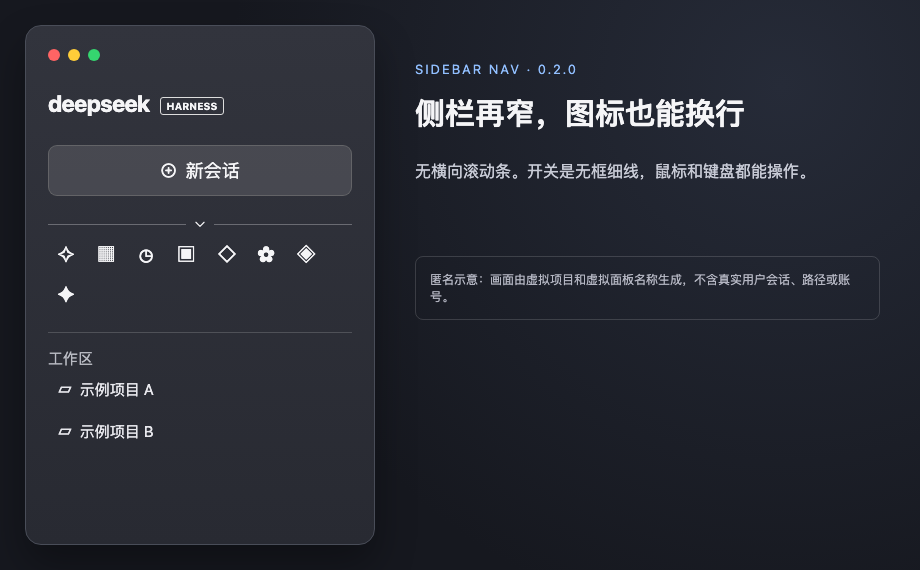
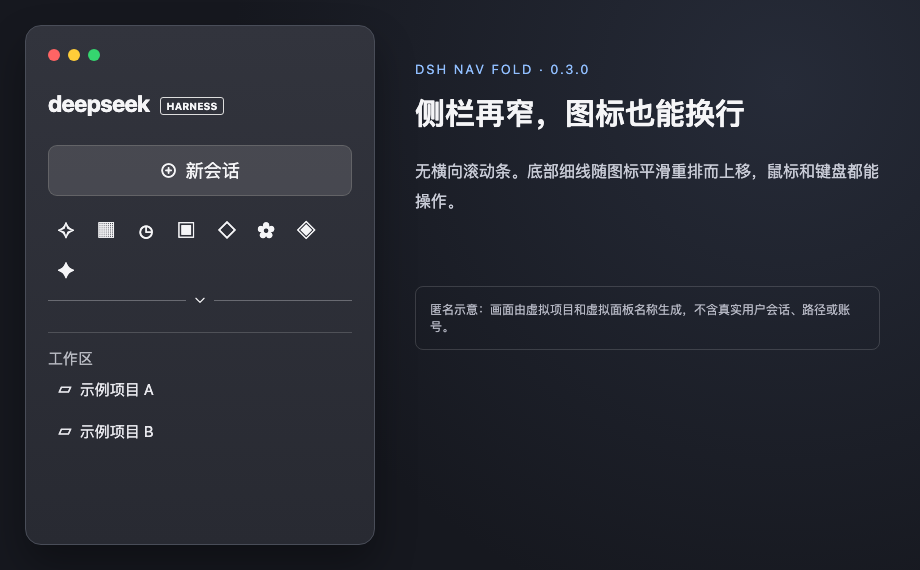
feat: rename nav fold and animate bottom toggle

diff --git a/lib/client.js b/lib/client.js
@@ -1,12 +1,12 @@
 window.__ModuleLoader__.load({
-  id: 'dsh-sidebar-nav-collapse',
+  id: 'dsh-nav-fold',
   factory: () => {
     const module = { exports: {} };
-    const key = 'dsh-sidebar-nav-collapse';
+    const key = 'dsh-sidebar-nav-collapse'; // Preserve existing fold and order settings across the rename.
     const css = `
-nav[class*="panelList"][data-sidebar-nav-collapsed] { position: relative; padding-top: 24px; }
+nav[class*="panelList"][data-sidebar-nav-collapsed] { position: relative; padding-bottom: 24px; }
 nav[class*="panelList"][data-sidebar-nav-collapsed="true"] {
-  display: flex; flex-direction: row; flex-wrap: wrap; align-items: center; min-width: 0;
+  display: flex; flex-direction: row; flex-wrap: wrap; align-items: center; align-content: flex-start; min-width: 0;
 }
 nav[class*="panelList"][data-sidebar-nav-collapsed="true"] > button[class*="panelRow"] {
   flex: 0 0 36px; width: 36px; min-width: 36px; padding-inline: 8px;
@@ -15,7 +15,7 @@ nav[class*="panelList"][data-sidebar-nav-collapsed="true"] > button[class*="pane
 nav[class*="panelList"][data-sidebar-nav-collapsed="true"] > button[class*="panelRow"] [class*="panelTitle"] { display: none; }
 nav[class*="panelList"][data-sidebar-nav-collapsed="true"] > button[class*="panelRow"] [class*="panelGlyph"] { flex: none; }
 nav[class*="panelList"] > [data-sidebar-nav-toggle] {
-  position: absolute; top: 0; left: 0; width: 100%; height: 24px;
+  position: absolute; bottom: 0; left: 0; width: 100%; height: 24px;
   display: flex; align-items: center; justify-content: center;
   border: 0; background: transparent; color: inherit; cursor: pointer;
 }
@@ -98,6 +98,41 @@ nav[class*="panelList"][data-sidebar-nav-collapsed="false"] > button[data-sideba
             syncRows(nav);
           }
         };
+        const animations = new Set();
+        const animateLayout = (update) => {
+          if (typeof document.body.animate !== 'function' || window.matchMedia?.('(prefers-reduced-motion: reduce)').matches) {
+            for (const animation of animations) animation.cancel();
+            animations.clear();
+            update();
+            return;
+          }
+          const before = [...managed].map((nav) => ({
+            nav, height: window.getComputedStyle(nav).height,
+            items: rows(nav).map((row) => [row, row.getBoundingClientRect()]),
+          }));
+          for (const animation of animations) animation.cancel();
+          animations.clear();
+          update();
+          const after = before.map(({ nav, height, items }) => ({
+            nav, height, items, targetHeight: window.getComputedStyle(nav).height,
+            targets: new Map(rows(nav).map((row) => [row, row.getBoundingClientRect()])),
+          }));
+          const play = (element, frames) => {
+            const animation = element.animate(frames, { duration: 280, easing: 'cubic-bezier(.4,0,.2,1)' });
+            animations.add(animation);
+            animation.onfinish = () => animations.delete(animation);
+            animation.oncancel = () => animations.delete(animation);
+          };
+          for (const { nav, height, items, targetHeight, targets } of after) {
+            if (height !== targetHeight) play(nav, [{ height }, { height: targetHeight }]);
+            for (const [row, rect] of items) {
+              const target = targets.get(row);
+              if (!target) continue;
+              const dx = rect.left - target.left, dy = rect.top - target.top;
+              if (dx || dy) play(row, [{ transform: `translate(${dx}px, ${dy}px)` }, { transform: 'translate(0, 0)' }]);
+            }
+          }
+        };
         const clear = (nav) => {
           syncRows(nav, true);
           nav.querySelector('[data-sidebar-nav-toggle]')?.remove();
@@ -152,7 +187,7 @@ nav[class*="panelList"][data-sidebar-nav-collapsed="false"] > button[data-sideba
           const ordered = visualRows(nav).filter((item) => item !== dragging.row);
           ordered.splice(ordered.indexOf(row) + (side === 'after' ? 1 : 0), 0, dragging.row);
           clearDrag();
-          saveOrder(ordered);
+          animateLayout(() => saveOrder(ordered));
         };
         const onKeyDown = (event) => {
           if (!event.altKey || !['ArrowLeft', 'ArrowRight', 'ArrowUp', 'ArrowDown'].includes(event.key)) return;
@@ -166,23 +201,27 @@ nav[class*="panelList"][data-sidebar-nav-collapsed="false"] > button[data-sideba
           event.preventDefault();
           ordered.splice(index, 1);
           ordered.splice(next, 0, row);
-          saveOrder(ordered);
+          animateLayout(() => saveOrder(ordered));
         };
         const sync = () => {
           for (const nav of managed) if (!nav.isConnected) clear(nav);
           for (const nav of document.querySelectorAll('nav[class*="panelList"]')) {
             if (!/^(全局面板|Global panels)$/.test(nav.getAttribute('aria-label') || '')) continue;
             if (!managed.has(nav)) managed.add(nav);
-            if (nav.querySelector(':scope > [data-sidebar-nav-toggle]')) continue;
+            const existing = nav.querySelector(':scope > [data-sidebar-nav-toggle]');
+            if (existing) {
+              if (nav.lastElementChild !== existing) nav.append(existing);
+              continue;
+            }
             const button = document.createElement('button');
             button.type = 'button';
             button.dataset.sidebarNavToggle = '';
-            button.addEventListener('click', () => {
+            button.addEventListener('click', () => animateLayout(() => {
               collapsed = !collapsed;
               try { window.localStorage.setItem(key, collapsed ? 'collapsed' : 'expanded'); } catch {}
               paint();
-            });
-            nav.prepend(button);
+            }));
+            nav.append(button);
             paint();
           }
           for (const nav of managed) syncRows(nav);
@@ -197,6 +236,8 @@ nav[class*="panelList"][data-sidebar-nav-collapsed="false"] > button[data-sideba
         document.body.addEventListener('keydown', onKeyDown);
         return () => {
           observer.disconnect();
+          for (const animation of animations) animation.cancel();
+          animations.clear();
           clearDrag();
           document.body.removeEventListener('dragstart', onDragStart);
           document.body.removeEventListener('dragover', onDragOver);
@@ -206,10 +247,10 @@ nav[class*="panelList"][data-sidebar-nav-collapsed="false"] > button[data-sideba
           for (const nav of managed) clear(nav);
           style.remove();
         };
-      }, 'dsh-sidebar-nav-collapse: global navigation');
+      }, 'dsh-nav-fold: global navigation');
     }
     module.exports.apply = apply;
-    module.exports.name = 'dsh-sidebar-nav-collapse-client';
+    module.exports.name = 'dsh-nav-fold-client';
     return module.exports;
   }
 });

diff --git a/test/client.test.js b/test/client.test.js
@@ -17,7 +17,7 @@ function start(html = navigation(), savedState, savedOrder) {
   const code = fs.existsSync(path) ? fs.readFileSync(path, 'utf8') : '';
   assert.match(code, /window\.__ModuleLoader__\.load/, 'client bundle must exist');
   vm.runInNewContext(code, { window: Object.assign(dom.window, { __ModuleLoader__: { load: (value) => { bundle = value; } } }), document: dom.window.document, MutationObserver: dom.window.MutationObserver });
-  assert.equal(bundle.id, 'dsh-sidebar-nav-collapse');
+  assert.equal(bundle.id, 'dsh-nav-fold');
   const client = bundle.factory(() => { throw Error('unexpected dependency'); });
   const disposers = [];
   client.apply({ effect: (fn) => { disposers.push(fn()); } });
@@ -50,17 +50,19 @@ test('collapse is a keyboard-accessible icon strip scoped to global nav; workspa
   dispose();
 });
 
-test('both states share a full-width slim top bar with a legible SVG icon', () => {
+test('both states share a full-width slim bottom line with a legible SVG icon', () => {
   const { doc, dispose } = start();
   const nav = doc.querySelector('nav');
   const toggle = nav.querySelector('[data-sidebar-nav-toggle]');
   const css = doc.querySelector('style[data-plugin-css="dsh-sidebar-nav-collapse"]').textContent;
-  assert.match(css, /nav\[class\*="panelList"\]\[data-sidebar-nav-collapsed\][^{]*\{[^}]*position:\s*relative;[^}]*padding-top:\s*24px/);
-  assert.match(css, /\[data-sidebar-nav-toggle\][^{]*\{[^}]*position:\s*absolute;[^}]*top:\s*0;[^}]*left:\s*0;[^}]*width:\s*100%;[^}]*height:\s*24px/);
+  assert.match(css, /nav\[class\*="panelList"\]\[data-sidebar-nav-collapsed\][^{]*\{[^}]*position:\s*relative;[^}]*padding-bottom:\s*24px/);
+  assert.match(css, /align-content:\s*flex-start/, 'wrapped rows must not stretch while nav height animates');
+  assert.match(css, /\[data-sidebar-nav-toggle\][^{]*\{[^}]*position:\s*absolute;[^}]*bottom:\s*0;[^}]*left:\s*0;[^}]*width:\s*100%;[^}]*height:\s*24px/);
   assert.match(css, /\[data-sidebar-nav-toggle\][^{]*\{[^}]*border:\s*0;[^}]*background:\s*transparent/);
   assert.match(css, /\[data-sidebar-nav-toggle\]::before[^}]*\{/);
   assert.match(css, /\[data-sidebar-nav-toggle\]::after[^}]*\{/);
   assert.match(css, /\[data-sidebar-nav-toggle\]\s+svg[^{]*\{[^}]*width:\s*14px;[^}]*height:\s*14px/);
+  assert.equal(nav.lastElementChild, toggle, 'visual bottom toggle should also be last in keyboard focus order');
   assert.equal(toggle.querySelector('svg')?.getAttribute('aria-hidden'), 'true');
   const closedPath = toggle.querySelector('path')?.getAttribute('d');
   toggle.click();
@@ -70,12 +72,45 @@ test('both states share a full-width slim top bar with a legible SVG icon', () =
   dispose();
 });
 
+test('toggle animates icon placement and bar travel, cancels fast reversals, respects reduced motion', () => {
+  const { doc, dom, dispose } = start();
+  const nav = doc.querySelector('nav');
+  const rows = [...nav.querySelectorAll('[class*="panelRow"]')];
+  const currentHeight = () => nav.dataset.sidebarNavCollapsed === 'true' ? 80 : 160;
+  const getStyle = dom.window.getComputedStyle.bind(dom.window);
+  dom.window.getComputedStyle = el => el === nav ? { height: `${currentHeight()}px` } : getStyle(el);
+  nav.getBoundingClientRect = () => ({ left: 0, top: 0, width: 180, height: currentHeight() });
+  rows.forEach((row, index) => { row.getBoundingClientRect = () => nav.dataset.sidebarNavCollapsed === 'true' ? { left: index * 40, top: 0 } : { left: 0, top: index * 40 }; });
+  dom.window.matchMedia = () => ({ matches: false });
+  const played = [];
+  let canceled = 0;
+  dom.window.Element.prototype.animate = function (frames, options) {
+    played.push({ element: this, frames, options });
+    return { cancel() { canceled++; } };
+  };
+  const toggle = nav.querySelector('[data-sidebar-nav-toggle]');
+  toggle.click();
+  assert.equal(nav.dataset.sidebarNavCollapsed, 'false');
+  assert.deepEqual(Array.from(played.find(item => item.element === nav).frames, frame => frame.height), ['80px', '160px']);
+  assert.equal(played.find(item => item.element === rows[1]).frames[0].transform, 'translate(40px, -40px)');
+  const firstCount = played.length;
+  toggle.click();
+  assert.equal(nav.dataset.sidebarNavCollapsed, 'true');
+  assert.equal(canceled, firstCount);
+  dom.window.matchMedia = () => ({ matches: true });
+  toggle.click();
+  assert.equal(nav.dataset.sidebarNavCollapsed, 'false');
+  assert.equal(played.length, firstCount * 2);
+  dispose();
+});
+
 test('persistent choice, future panel entries and sidebar remount keep same state', async () => {
   const { doc, dom, dispose } = start();
   const nav = doc.querySelector('nav');
   nav.querySelector('[data-sidebar-nav-toggle]').click();
   nav.insertAdjacentHTML('beforeend', panel('Future plugin'));
   await flush();
+  assert.equal(nav.lastElementChild, nav.querySelector('[data-sidebar-nav-toggle]'));
   assert.equal(nav.dataset.sidebarNavCollapsed, 'false');
   assert.equal(nav.querySelectorAll('[data-sidebar-nav-toggle]').length, 1);
   nav.outerHTML = navigation('New plugin').replace('<div id="workspaces">Workspace and sessions</div>', '');

diff --git a/docs/preview.html b/docs/preview.html
@@ -2,7 +2,7 @@
 <html lang="zh-CN">
 <meta charset="utf-8">
 <meta name="viewport" content="width=device-width,initial-scale=1">
-<title>侧栏插件匿名演示｜全部名称均为虚拟数据</title>
+<title>dsh-nav-fold 匿名演示｜全部名称均为虚拟数据</title>
 <style>
   * { box-sizing: border-box; }
   body { margin: 0; background: #17191f; color: #f5f5f7; font: 15px -apple-system, BlinkMacSystemFont, "PingFang SC", sans-serif; }
@@ -44,7 +44,7 @@
     </nav>
     <div class="workspaces">工作区<div>▱ &nbsp;示例项目 A</div><div>▱ &nbsp;示例项目 B</div></div>
   </div>
-  <div class="notes"><div class="eyebrow">SIDEBAR NAV · 0.2.0</div><h1 id="headline"></h1><p id="details"></p><div class="note">匿名示意：画面由虚拟项目和虚拟面板名称生成，不含真实用户会话、路径或账号。</div></div>
+  <div class="notes"><div class="eyebrow">DSH NAV FOLD · 0.3.0</div><h1 id="headline"></h1><p id="details"></p><div class="note">匿名示意：画面由虚拟项目和虚拟面板名称生成，不含真实用户会话、路径或账号。</div></div>
 </div>
 <script>window.__ModuleLoader__ = { load: bundle => window.navBundle = bundle };</script>
 <script src="../lib/client.js"></script>
@@ -58,7 +58,7 @@
     document.querySelector('.canvas').style.height = '760px';
     nav.querySelector('[data-sidebar-nav-toggle]').click();
     headline.textContent = '一条线，展开原来的列表';
-    details.textContent = '细线中央的小箭头始终在原位；工作区、会话入口保持独立。';
+    details.textContent = '细线顺着图标布局向下移动；工作区、会话入口保持独立。';
   } else if (mode === 'drag') {
     const row = nav.querySelector('[aria-label="任务看板"]');
     row.dataset.sidebarDrop = 'before';
@@ -67,7 +67,7 @@
     details.textContent = '蓝色高光提示落点；悬停图标可查看当前语言的名称；顺序保存在本机。';
   } else {
     headline.textContent = '侧栏再窄，图标也能换行';
-    details.textContent = '无横向滚动条。开关是无框细线，鼠标和键盘都能操作。';
+    details.textContent = '无横向滚动条。底部细线随图标平滑重排而上移，鼠标和键盘都能操作。';
   }
 </script>
 </html>

diff --git a/README.md b/README.md
@@ -1,6 +1,6 @@
-# DSH 左侧全局面板折叠
+# dsh-nav-fold · DSH 全局面板折叠
 
-适配 DeepSeek Harness `0.2.1-rc.2`。全局面板导航顶部是一条无框细线，中央小箭头切换展开/折叠；折叠后图标随侧栏宽度自动换行，不再横向滚动。悬停图标显示宿主当前语言的面板名称（如「插件」「记忆系统」）。按住图标可拖动排序，目标位置有蓝色高光提示，松手后保存；键盘也可用 `Alt + 方向键` 调整。新注册的面板会自动加入，工作区与会话列表不受影响。
+适配 DeepSeek Harness `0.2.1-rc.2`。全局面板导航底部是一条无框细线，中央小箭头切换展开/折叠；细线随内容高度上下移动，图标平滑重排，连续点击可立即反向，系统开启「减少动态效果」时不播放动画。折叠后图标随侧栏宽度自动换行，不再横向滚动。悬停图标显示宿主当前语言的面板名称（如「插件」「记忆系统」）。按住图标可拖动排序，目标位置有蓝色高光提示，松手后保存；键盘也可用 `Alt + 方向键` 调整。新注册的面板会自动加入，工作区与会话列表不受影响。
 
 ## 界面预览
 
@@ -14,13 +14,15 @@
 
 ![虚拟数据示意：拖动目标高光占位](docs/images/drag.png)
 
-展开：箭头仍留在同一位置，工作区入口保留。
+展开：细线随列表向下移动，工作区入口仍独立保留。
 
 ![虚拟数据示意：展开列表与独立的工作区](docs/images/expanded.png)
 
 ## 安装
 
-在桌面端「插件 → 添加插件」中填写本仓库 Release 的 `.tgz` 文件下载后的**绝对路径**，安装并启用；也可填写本 GitHub 仓库 Git 地址。不要对桌面 profile 手工执行 `pnpm add` 或编辑配置。该插件无安装脚本、无新增运行时依赖。
+**从旧版 `dsh-sidebar-nav-collapse` 升级时，先在插件管理器停用并移除旧插件。** 新包名 `dsh-nav-fold` 不会覆盖旧安装；如果两个插件同时启用，就会重复控制同一个导航。旧版的本地折叠状态和图标顺序会保留。
+
+在桌面端「插件 → 添加插件」中填写 [最新 Release](https://github.com/nico-zhuang/dsh-nav-fold/releases/latest) 的 `.tgz` 文件下载后的**绝对路径**，安装并启用；也可填写本 GitHub 仓库 Git 地址。不要对桌面 profile 手工执行 `pnpm add` 或编辑配置。该插件无安装脚本、无新增运行时依赖。
 
 ## 验证
 
